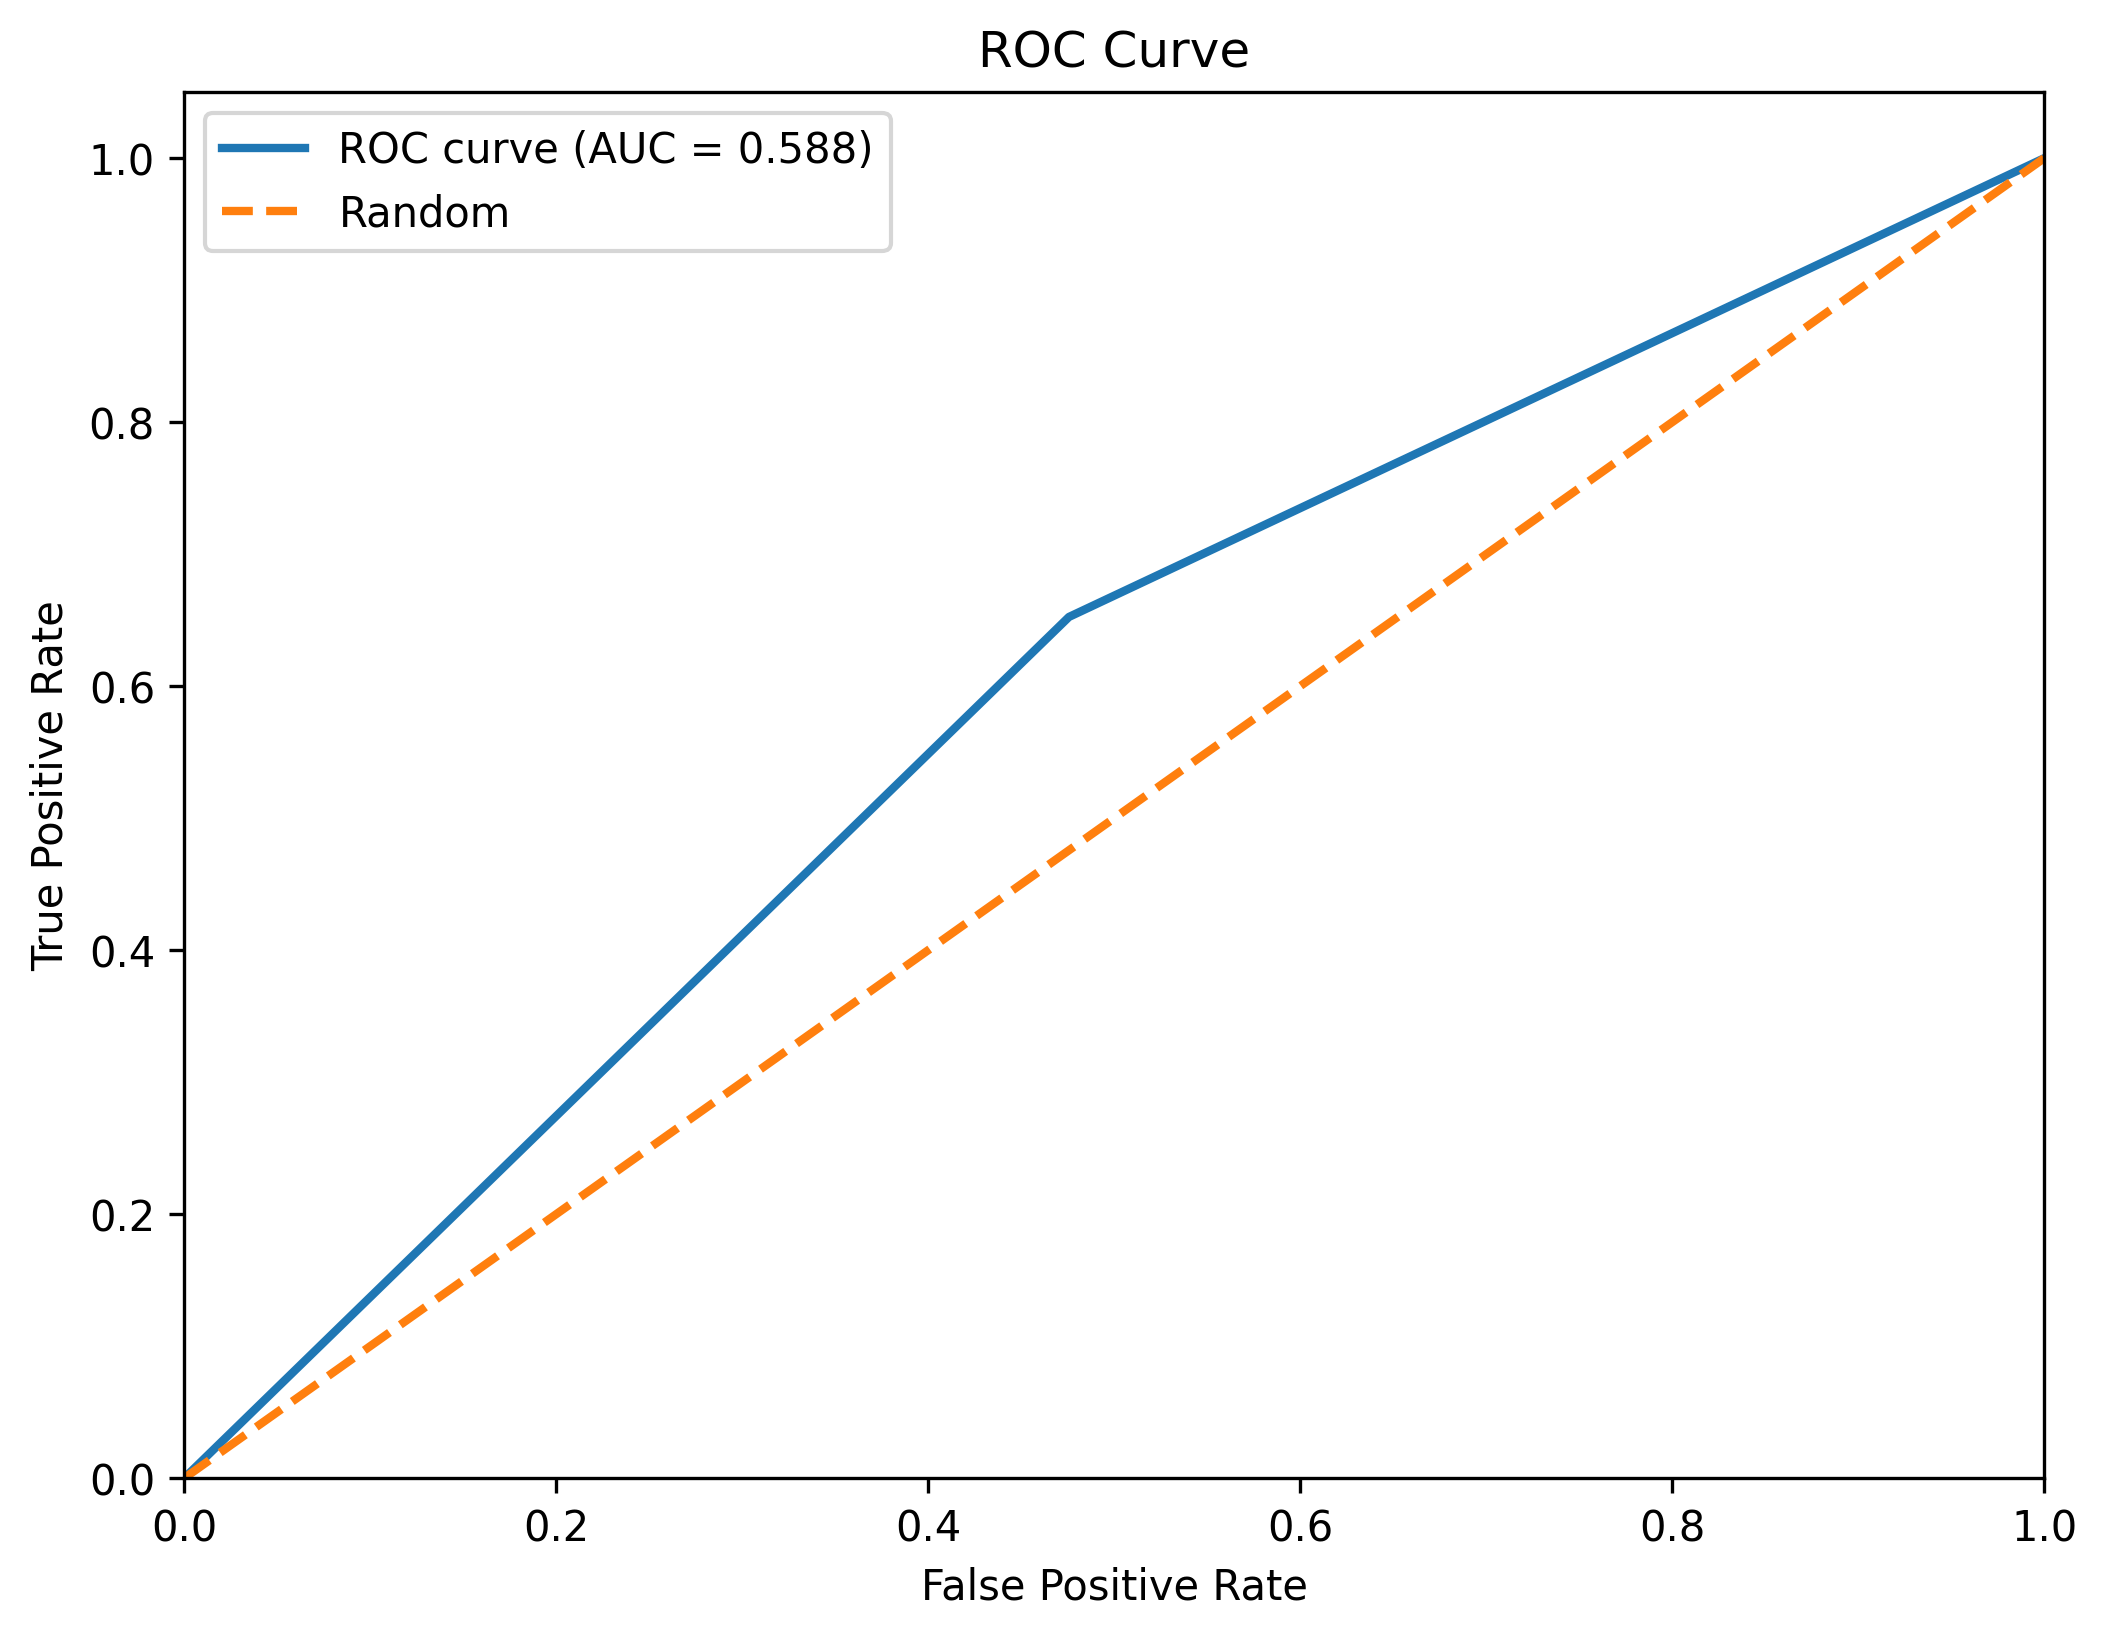
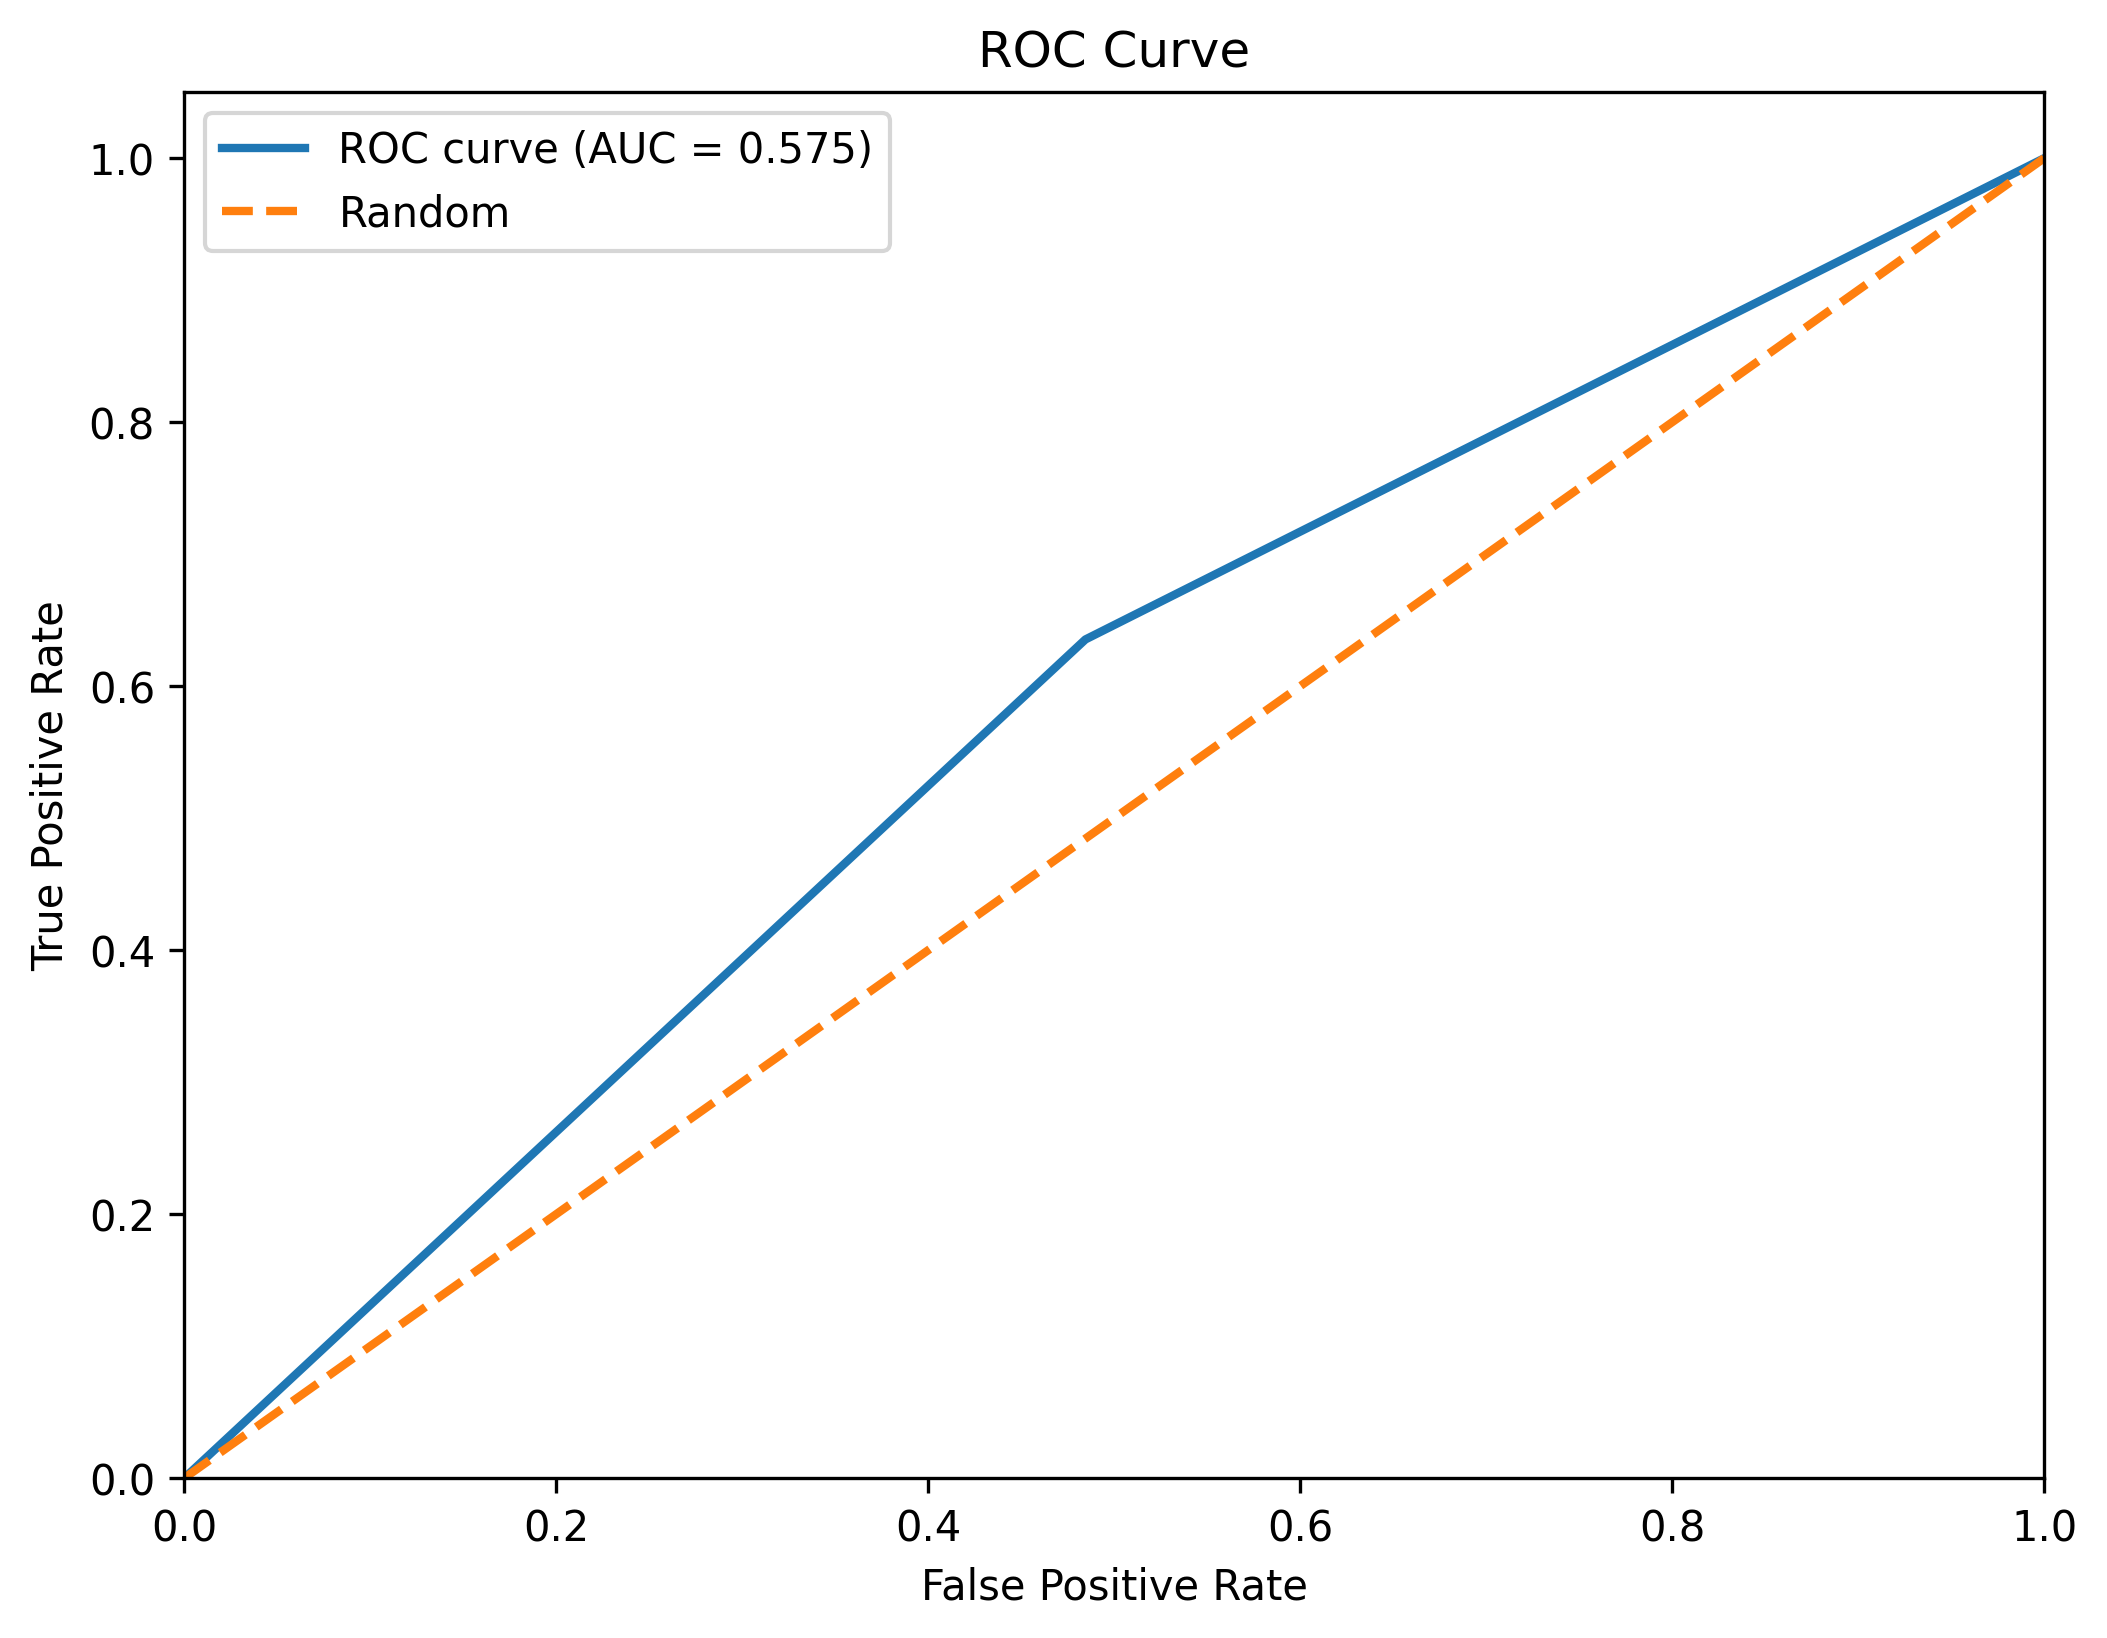
FIX: all metrics responding correctly now

diff --git a/recognition/siamese_kaggle_48020774/dataset.py b/recognition/siamese_kaggle_48020774/dataset.py
@@ -39,15 +39,24 @@ class PreprocessLayer(layers.Layer):
 
     def __init__(self, **kwargs):
         super().__init__(**kwargs)
-        self.flip = layers.RandomFlip("horizontal_and_vertical")
-        # self.col = layers.RandomColorJitter([0,255], 0.2, 0.2, 0.1)
-        self.norm = NormalizationLayer()
 
     def call(self, inputs):
-        inputs = self.flip(inputs)
-        # inputs = self.col(inputs)
-        # print("Preprocessed input shape:", inputs.shape)
-        inputs = self.norm(inputs)
+        # More diverse data augmentation for better generalization
+        inputs = tf.image.random_flip_left_right(inputs)
+        inputs = tf.image.random_flip_up_down(inputs)
+        
+        # Color augmentations with more variation
+        inputs = tf.image.random_brightness(inputs, max_delta=0.15)  # Increased from 0.1
+        inputs = tf.image.random_contrast(inputs, lower=0.8, upper=1.2)  # Increased range
+        inputs = tf.image.random_saturation(inputs, lower=0.8, upper=1.2)  # Increased range
+        inputs = tf.image.random_hue(inputs, max_delta=0.15)  # Increased from 0.1
+        
+        # Random crop and resize for translation invariance
+        shape = tf.shape(inputs)
+        crop_size = tf.cast(tf.cast(shape[1:3], tf.float32) * 0.9, tf.int32)  # 90% crop
+        inputs = tf.image.random_crop(inputs, [shape[0], crop_size[0], crop_size[1], shape[3]])
+        inputs = tf.image.resize(inputs, [256, 256])
+        
         return inputs
     
 class TrainTestPreprocessor(layers.Layer):
@@ -162,8 +171,8 @@ class Dataset:
         k_neg = max(1, int(n_neg * train_split))
         
         # -------------- build labeled path datasets ----------------
-        pos_paths = tf.data.Dataset.from_tensor_slices(pos_files)
-        neg_paths = tf.data.Dataset.from_tensor_slices(neg_files)
+        pos_paths = tf.data.Dataset.from_tensor_slices(pos_files).shuffle(n_pos)
+        neg_paths = tf.data.Dataset.from_tensor_slices(neg_files).shuffle(n_neg)
 
         # attach labels (1 for pos, 0 for neg) — specify num_parallel_calls properly
         pos_labeled = pos_paths.map(lambda p: (p, tf.constant(1, tf.int32)), num_parallel_calls=tf.data.AUTOTUNE)

diff --git a/recognition/siamese_kaggle_48020774/modules.py b/recognition/siamese_kaggle_48020774/modules.py
@@ -98,7 +98,7 @@ class DisplayLayer(layers.Layer):
         self.accuracy_tracker.update_state(labels_bool, classifications)
         # Remove the incorrect loss terms - metrics should not add losses
         # self.add_loss(1.0 - self.accuracy_tracker.result())
-        self.AUCROC_tracker.update_state(labels_bool, positive_probability)
+        self.AUCROC_tracker.update_state(labels_bool, classifications)
         # self.add_loss(1.0 - self.AUCROC_tracker.result())
         # self.add_loss(losses.BinaryCrossentropy()(labels, positive_probability))
         
@@ -128,10 +128,10 @@ class EncoderHead(layers.Layer):
         super().__init__(**kwargs)
         self.flat = layers.Flatten()
         self.dense1 = layers.Dense(512, activation='relu')
-        self.dropout1 = layers.Dropout(0.5)
-        self.dense2 = layers.Dense(512, activation='relu')
-        self.dropout2 = layers.Dropout(0.5)
-        self.dense3 = layers.Dense(256, activation='relu')
+        self.dropout1 = layers.Dropout(0.7)  # Increased from 0.5
+        self.dense2 = layers.Dense(512, activation='relu')  # Reduced from 512
+        self.dropout2 = layers.Dropout(0.7)  # Increased from 0.5
+        self.dense3 = layers.Dense(256, activation='relu')  # Reduced from 256
 
     def call(self, resnet_output):
         # haha python is stupid
@@ -188,7 +188,10 @@ def construct_classifier():
 
 def compile_model(model : Model, learning_rate):
     model.compile(
-        optimizer=optimizers.Adam(learning_rate=learning_rate),
+        optimizer=optimizers.Adam(
+            learning_rate=learning_rate,
+            weight_decay=1e-4  # Add L2 regularization
+        ),
     )
 
 if __name__ == "__main__":

diff --git a/recognition/siamese_kaggle_48020774/train.py b/recognition/siamese_kaggle_48020774/train.py
@@ -19,23 +19,19 @@ save_callback = callbacks.ModelCheckpoint(
     verbose=1
 )
 
-# Add learning rate scheduler for better convergence
-lr_scheduler = callbacks.ReduceLROnPlateau(
-    monitor='val_triplet_loss',
-    factor=0.5,
-    patience=3,
-    min_lr=1e-6,
-    verbose=1,
-    mode='min'
+# Add learning rate scheduler that decreases LR slightly each epoch
+lr_scheduler = callbacks.LearningRateScheduler(
+    lambda epoch: config['learning_rate'] * (0.93 ** epoch),
+    verbose=1
 )
 
 # Add early stopping to prevent overfitting
 early_stopping = callbacks.EarlyStopping(
-    monitor='val_triplet_loss',
-    patience=5,
+    monitor='val_AUCROC',  # Monitor validation AUCROC instead of loss
+    patience=5,  # Reduced from 8 for earlier stopping
     restore_best_weights=True,
     verbose=1,
-    mode='min'
+    mode='max'  # Changed to max since we want higher AUCROC
 )
 
 def load_weights(model):

diff --git a/recognition/siamese_kaggle_48020774/predict.py b/recognition/siamese_kaggle_48020774/predict.py
@@ -23,7 +23,7 @@ if __name__ == "__main__":
     train.train(
         model, 
         data,
-        15
+        config['epochs']
     )
     
     train.validate(
